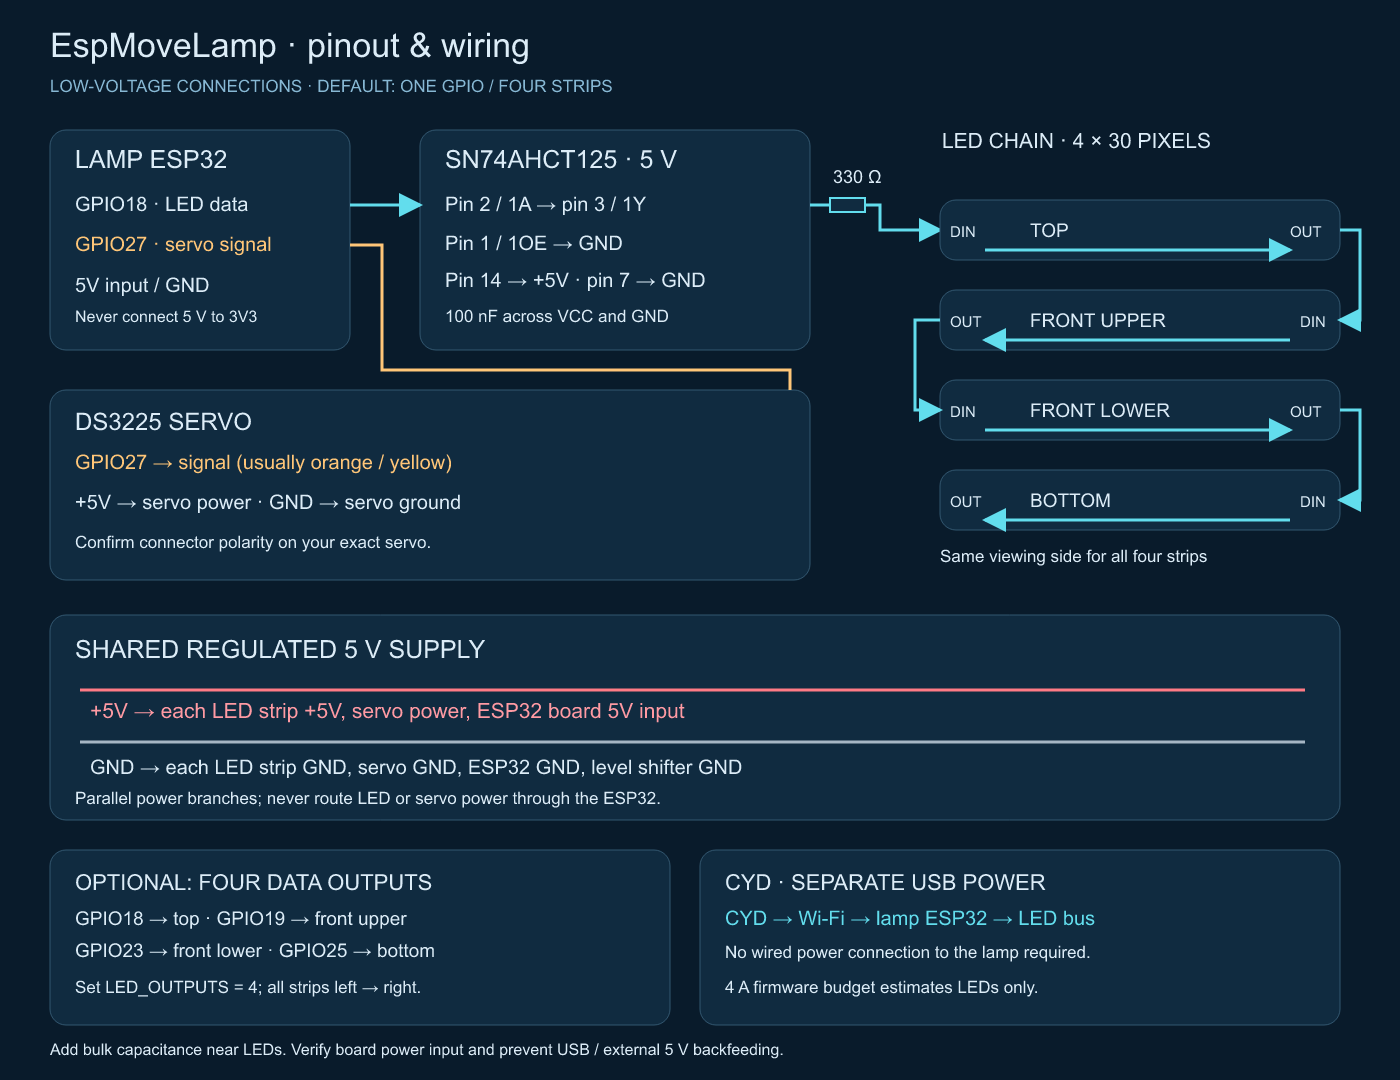
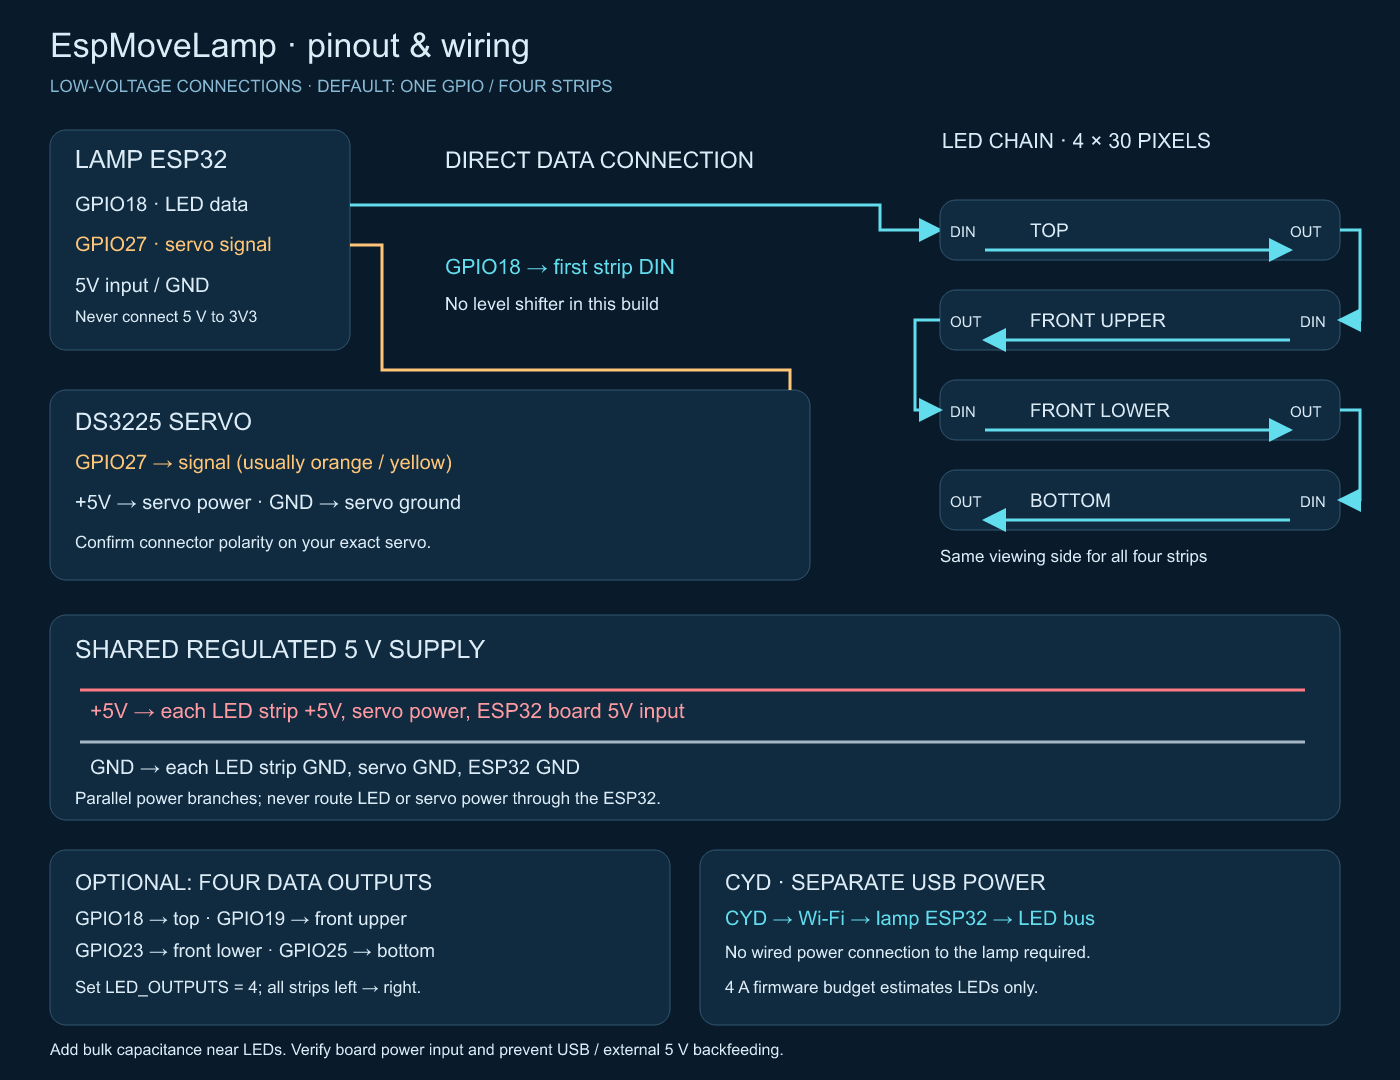
Document direct ESP32 to LED wiring

Changed region(s): [[0.2764, 0.1528, 0.6143, 0.3056], [0.3071, 0.1222, 0.5529, 0.1528], [0.43, 0.7028, 0.5221, 0.7333]]

diff --git a/hardware/tools/render_wiring.py b/hardware/tools/render_wiring.py
@@ -14,11 +14,10 @@ text(50,92,'LOW-VOLTAGE CONNECTIONS · DEFAULT: ONE GPIO / FOUR STRIPS',17,'#87b
 box(50,130,300,220);text(75,168,'LAMP ESP32',25)
 text(75,211,'GPIO18 · LED data');text(75,251,'GPIO27 · servo signal',20,'#ffc678')
 text(75,292,'5V input / GND');text(75,322,'Never connect 5 V to 3V3',16)
-box(420,130,390,220);text(445,168,'SN74AHCT125 · 5 V',25)
-text(445,211,'Pin 2 / 1A → pin 3 / 1Y');text(445,250,'Pin 1 / 1OE → GND')
-text(445,287,'Pin 14 → +5V · pin 7 → GND');text(445,322,'100 nF across VCC and GND',17)
-line('M350 205H420',arrow=True)
-line('M810 205H830M865 205H880V230H940',arrow=True);parts.append('<rect x="830" y="198" width="35" height="14" fill="#102b40" stroke="#62dded" stroke-width="2"/>');text(833,183,'330 Ω',18)
+text(445,168,'DIRECT DATA CONNECTION',23)
+text(445,274,'GPIO18 → first strip DIN',21,'#62dded')
+text(445,310,'No level shifter in this build',18)
+line('M350 205H880V230H940',arrow=True)
 text(942,148,'LED CHAIN · 4 × 30 PIXELS',21)
 for y,label,direction in [(230,'TOP','left'),(320,'FRONT UPPER','right'),(410,'FRONT LOWER','left'),(500,'BOTTOM','right')]:
  box(940,y-30,400,60)
@@ -36,7 +35,7 @@ line('M350 245H382V370H790V390','#ffc678');text(75,469,'GPIO27 → signal (usual
 text(75,509,'+5V → servo power · GND → servo ground');text(75,548,'Confirm connector polarity on your exact servo.',17)
 box(50,615,1290,205);text(75,658,'SHARED REGULATED 5 V SUPPLY',25)
 line('M80 690H1305','#ff7a85');text(90,718,'+5V → each LED strip +5V, servo power, ESP32 board 5V input',21,'#ff9aa3')
-line('M80 742H1305','#a6b6c4');text(90,774,'GND → each LED strip GND, servo GND, ESP32 GND, level shifter GND',20)
+line('M80 742H1305','#a6b6c4');text(90,774,'GND → each LED strip GND, servo GND, ESP32 GND',20)
 text(75,804,'Parallel power branches; never route LED or servo power through the ESP32.',17)
 box(50,850,620,175);text(75,890,'OPTIONAL: FOUR DATA OUTPUTS',22)
 text(75,925,'GPIO18 → top · GPIO19 → front upper',19);text(75,957,'GPIO23 → front lower · GPIO25 → bottom',19)

diff --git a/README.md b/README.md
@@ -63,13 +63,12 @@ The CYD uses its own separate enclosure and power supply. The planned left base 
 
 ![ESP32 pinout and low-voltage wiring](hardware/docs/wiring.png)
 
-[Vector diagram](hardware/docs/wiring.svg). Level-shifter pin numbers refer to the standard 14-pin [TI SN74AHCT125](https://www.ti.com/lit/ds/symlink/sn74ahct125.pdf). For unused gates, tie inputs to a defined level and disable outputs via their OE pins. Four-output mode requires one level-shifter channel and series resistor per data line.
+[Vector diagram](hardware/docs/wiring.svg). This diagram documents the actual direct connection: ESP32 GPIO18 connects to DIN of the first LED strip, without a level shifter.
 
 The current firmware uses **one data output on GPIO18** for a 120-pixel chain:
 
 ```text
-GPIO18 -> 5 V logic-level shifter -> 330 ohm resistor
-       -> TOP -> FRONT UPPER -> FRONT LOWER -> BOTTOM
+GPIO18 -> TOP DIN -> FRONT UPPER -> FRONT LOWER -> BOTTOM
 GPIO27 -> DS3225 signal
 5 V supply -> parallel power injection to all four strips
 GND -> common ground for LEDs, ESP32, and servo
@@ -86,7 +85,7 @@ Viewed from the same side, the data directions alternate:
 
 The firmware reverses the logical pixel order of the second and fourth strips so effects have a consistent left-to-right direction. Four independent data outputs are an optional, currently disabled configuration using GPIO18, GPIO19, GPIO23, and GPIO25.
 
-Power the LEDs and servo from an adequately rated supply, **not through the ESP32 USB connector**. Classic WS2812 LEDs can draw up to approximately 7.2 A at full RGB white across 120 pixels. Firmware currently caps *estimated LED current* to 4 A; this is not a measured total-system current limit. The DS3225 also needs sufficient transient current. Use appropriate wiring, protection, and power injection. A 5 V-compatible logic-level shifter such as the 74AHCT125 is recommended.
+Power the LEDs and servo from an adequately rated supply, **not through the ESP32 USB connector**. Classic WS2812 LEDs can draw up to approximately 7.2 A at full RGB white across 120 pixels. Firmware currently caps *estimated LED current* to 4 A; this is not a measured total-system current limit. The DS3225 also needs sufficient transient current. Use appropriate wiring, protection, and power injection. The ESP32 and LED supply must share a common ground.
 
 ## Mechanical design and 3D printing
 
